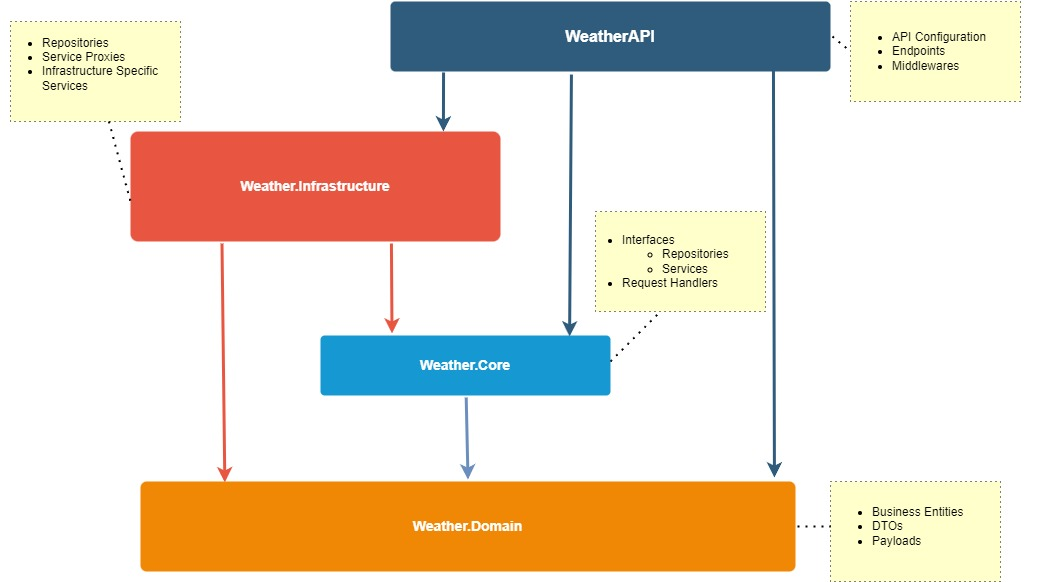
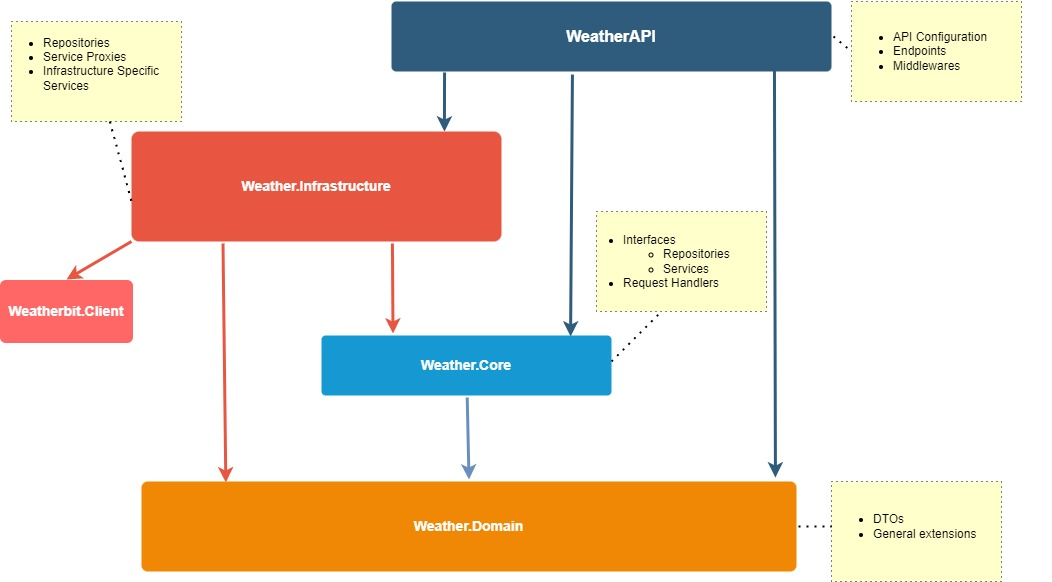
edit diagrams

diff --git a/README.md b/README.md
@@ -49,8 +49,6 @@ Solution contains four layers:
 	* DTOs
 	* General Extensions
 
-#### Onion Diagram
-![Project Clean Architecture Diagram - Onion](./doc/img/cleanArchitectureOnion.jpg)
 #### Horizontal Diagram (references)
 ![Project Clean Architecture Diagram](./doc/img/cleanArchitecture.jpg)
 
